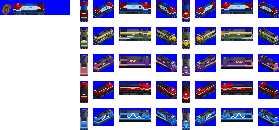
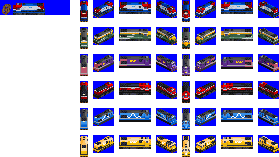
2023.4.6 GT26CW G-train 도색 추가

diff --git a/docs/changelog.md b/docs/changelog.md
@@ -5,7 +5,8 @@
 * ITX-새마을 DD (회사색상 추가)
 * G-train 신도색 (추가)
 * 8500호대 관광열차 A-train, G-train 신도색 (추가)
-* DEL7600 A-train (추가)
+* DEL7600 A-Train 신도색 (추가)
+* GT26CW G-Train 도색 (추가)
 
 1.4.0-RC1 (개발버전)
 -----
